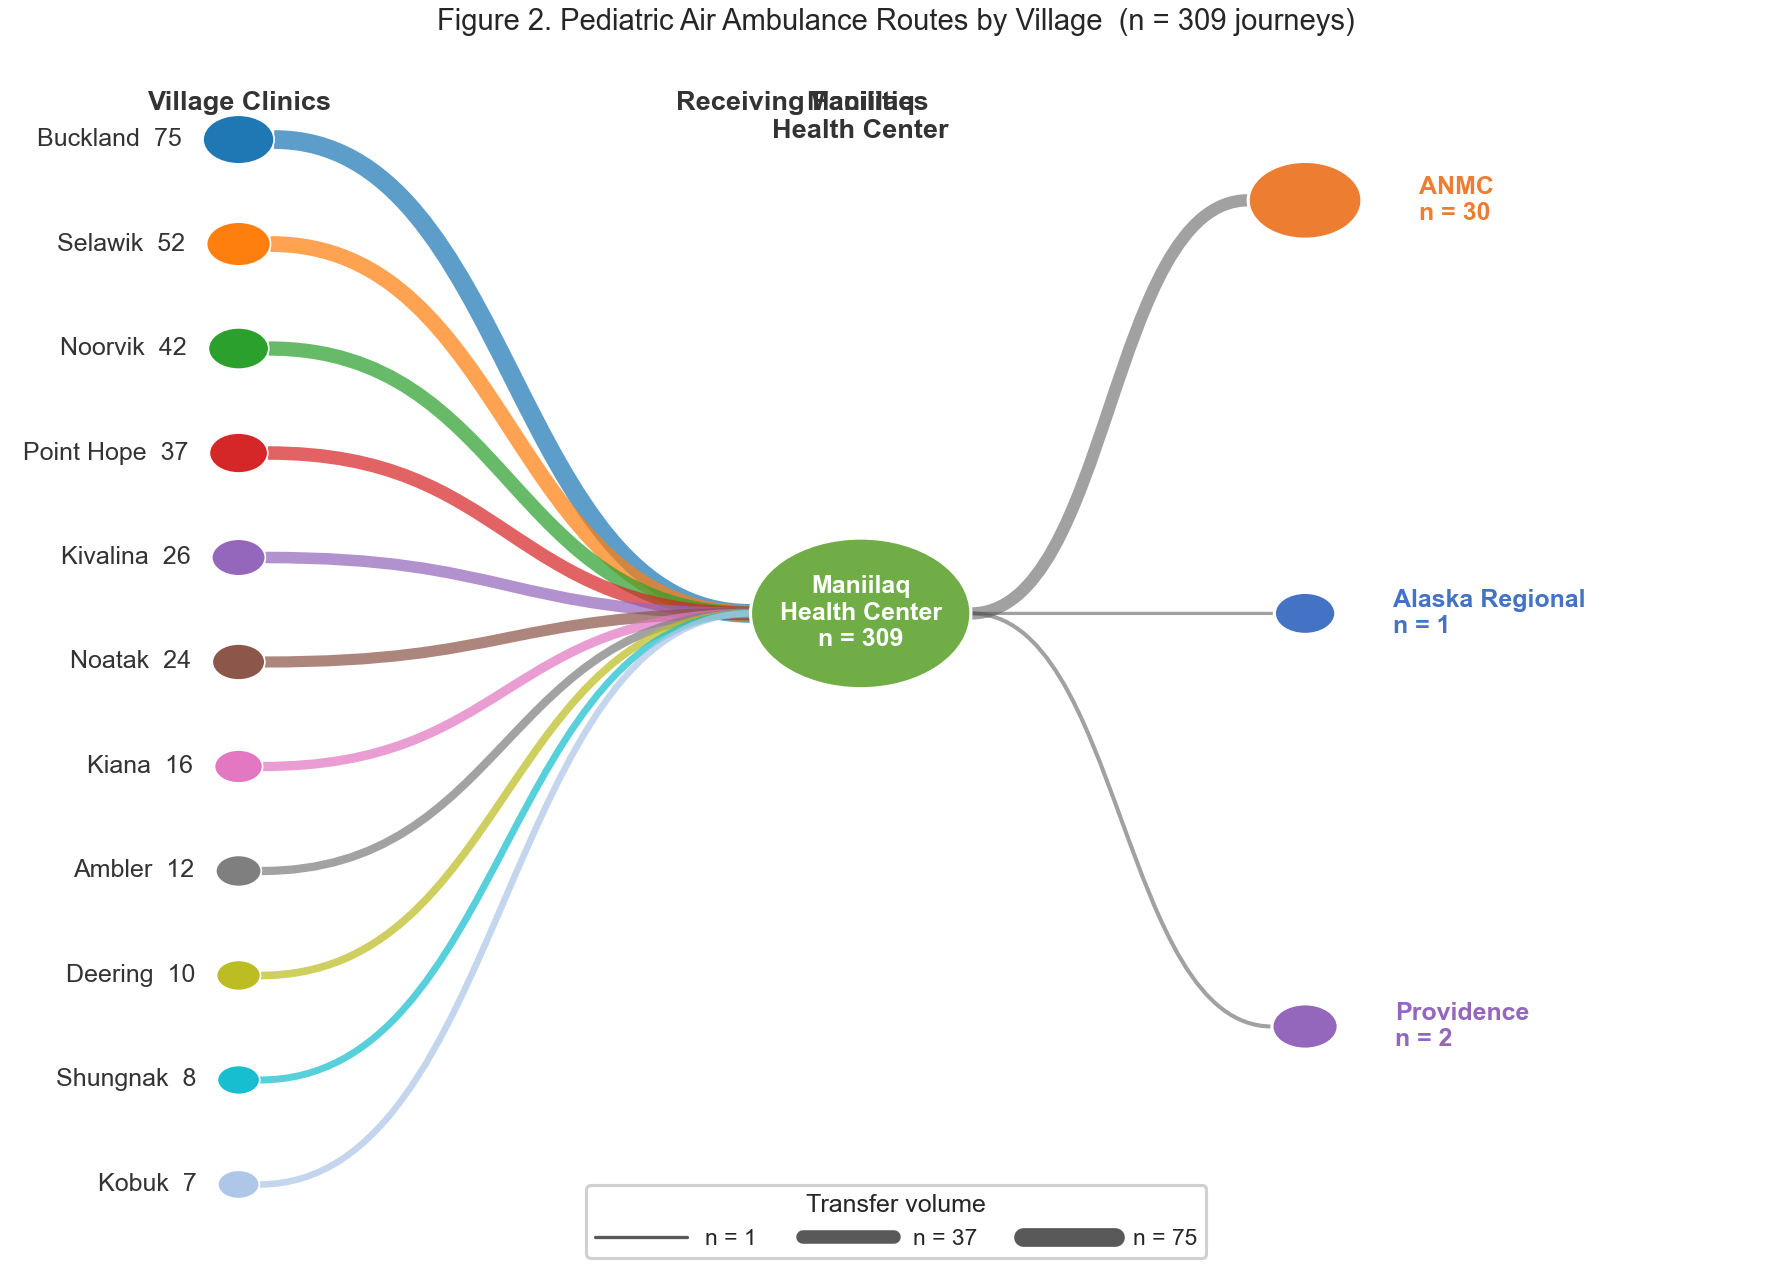
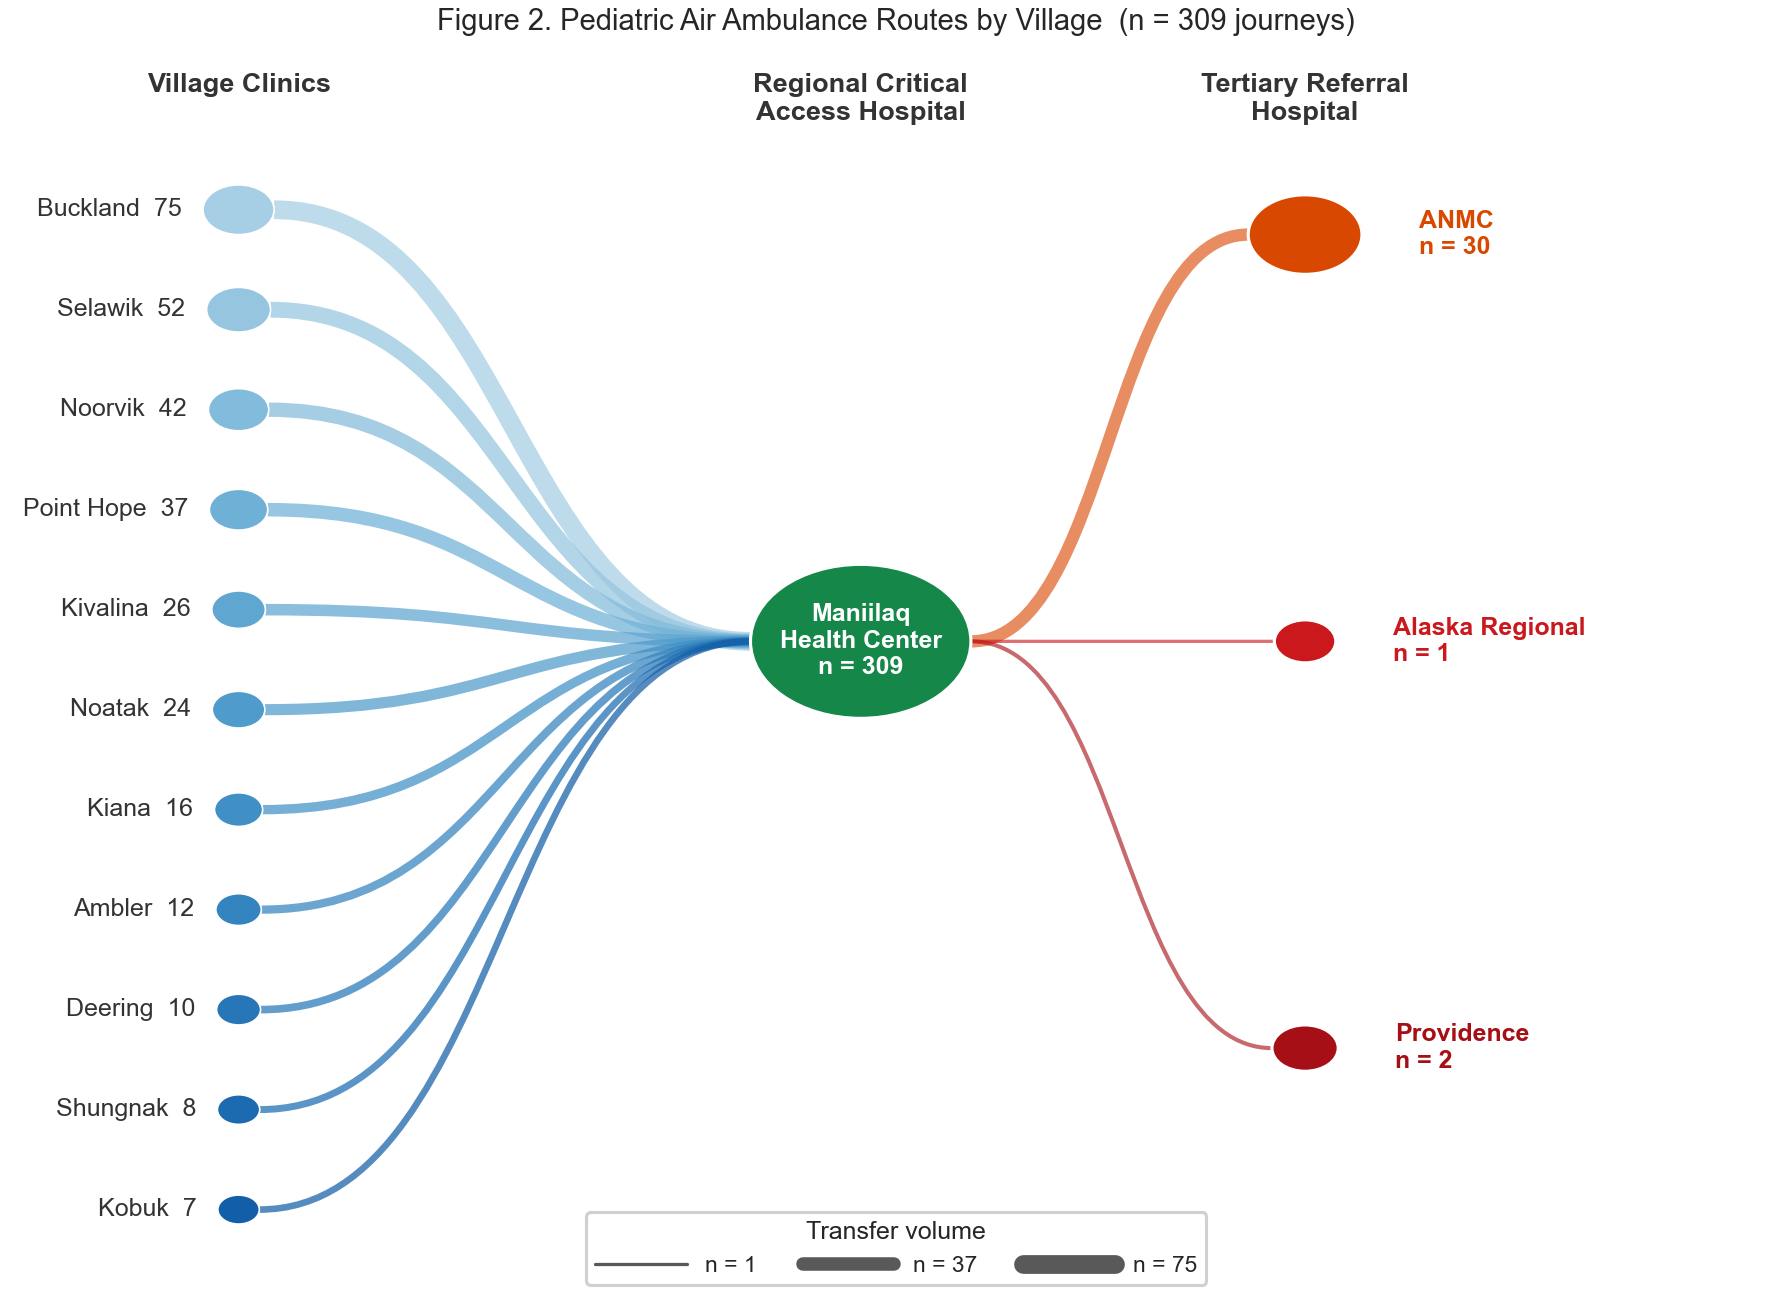
Finalize Figure 2 route map layout, labels, and care-pathway colors.
Use generic column headers with proper spacing, distinct Maniilaq and ANMC colors with village-to-tertiary progression, and drop the pathway colorbar.

diff --git a/analysis/medevac_summaries.py b/analysis/medevac_summaries.py
@@ -3578,6 +3578,12 @@ _VILLAGE_PALETTE = [
     "#1f77b4","#ff7f0e","#2ca02c","#d62728","#9467bd",
     "#8c564b","#e377c2","#7f7f7f","#bcbd22","#17becf","#aec7e8",
 ]
+# Figure 2 route map: left→right care-pathway colors (villages → MHC → tertiary)
+_ROUTE_MHC_COLOR = "#158749"
+_ROUTE_ANMC_COLOR = "#D94801"
+_ROUTE_VILLAGE_CMAP_LO = 0.35
+_ROUTE_VILLAGE_CMAP_HI = 0.82
+_ROUTE_TERTIARY_OTHER = ["#CB181D", "#A50F15", "#7F2704"]
 _AGE_PALETTE = ["#4C72B0","#DD8452","#55A868","#C44E52"]
 _AGE_ORDER   = ["<1 year","1–<5 years","5–12 years","13–18 years"]
 
@@ -3817,6 +3823,8 @@ def plot_fig4_sankey_transport_routes(df_all: pd.DataFrame) -> plt.Figure:
     ANMC detection covers both PHI encoded values ("Hub_01", values that
     start with "Hub") and the synthetic/plain-text label "ANMC".
     """
+    import matplotlib.cm as cm
+    import matplotlib.colors as mcolors
     import matplotlib.patches as mpatches
     from matplotlib.path import Path as MplPath
     import numpy as np
@@ -3905,19 +3913,23 @@ def plot_fig4_sankey_transport_routes(df_all: pd.DataFrame) -> plt.Figure:
 
     villages = sorted(village_total, key=lambda v: -village_total[v])
 
-    # ── Colour palettes ───────────────────────────────────────────────────────
+    # ── Colour palettes (village blues → MHC green → tertiary warm) ───────────
+    blues = cm.get_cmap("Blues")
+    nv = len(villages)
     vcolor: dict[str, str] = {
-        v: _VILLAGE_PALETTE[i % len(_VILLAGE_PALETTE)]
+        v: mcolors.to_hex(
+            blues(
+                _ROUTE_VILLAGE_CMAP_LO
+                + (_ROUTE_VILLAGE_CMAP_HI - _ROUTE_VILLAGE_CMAP_LO)
+                * i
+                / max(nv - 1, 1)
+            )
+        )
         for i, v in enumerate(villages)
     }
-    right_colors = {
-        "ANMC": "#ED7D31",
-        "MHC":  "#70AD47",
-    }
-    outside_palette = ["#4472C4", "#9467BD", "#8C564B", "#E377C2",
-                       "#17BECF", "#BCBD22", "#7F7F7F"]
-    for i, d in enumerate(d for d in all_right_dests if d not in right_colors):
-        right_colors[d] = outside_palette[i % len(outside_palette)]
+    right_colors: dict[str, str] = {"ANMC": _ROUTE_ANMC_COLOR}
+    for i, d in enumerate(d for d in all_right_dests if d != "ANMC"):
+        right_colors[d] = _ROUTE_TERTIARY_OTHER[i % len(_ROUTE_TERTIARY_OTHER)]
 
     # ── Layout constants ──────────────────────────────────────────────────────
     X_V   = 0.13    # village column x-centre
@@ -3925,15 +3937,15 @@ def plot_fig4_sankey_transport_routes(df_all: pd.DataFrame) -> plt.Figure:
     X_R   = 0.73    # right column dot x-centre (ANMC + outside)
     R_LABEL_GAP = 0.032  # horizontal gap between dot edge and label
 
-    # Village y positions
+    # Village y positions (keep top row below multi-line column headers)
     nv = len(villages)
-    yv_top, yv_bot = 0.93, 0.07
+    yv_top, yv_bot = 0.875, 0.07
     v_ys = {v: yv_top - i * (yv_top - yv_bot) / max(nv - 1, 1)
             for i, v in enumerate(villages)}
 
     # Right-column nodes: evenly spaced, top to bottom
     nr = len(all_right_dests)
-    yr_top, yr_bot = 0.88, 0.20
+    yr_top, yr_bot = 0.855, 0.20
     r_ys = {d: yr_top - i * (yr_top - yr_bot) / max(nr - 1, 1)
             for i, d in enumerate(all_right_dests)}
     Y_MHC = float(np.mean([yr_top, yr_bot]))   # MHC centres vertically
@@ -3957,6 +3969,7 @@ def plot_fig4_sankey_transport_routes(df_all: pd.DataFrame) -> plt.Figure:
 
     all_right_max = max(n_right.values()) if n_right else 1
     R_R_MAX, R_R_MIN = 0.032, 0.014   # dot radius for right-column nodes
+    X_R_HDR = X_R                 # header centered over tertiary dots (not labels)
 
     def _rr(n: int) -> float:
         return R_R_MIN + (R_R_MAX - R_R_MIN) * (n / all_right_max) ** 0.5
@@ -4011,13 +4024,14 @@ def plot_fig4_sankey_transport_routes(df_all: pd.DataFrame) -> plt.Figure:
             continue
         ry = r_ys[dest]
         rr = _rr(n_right.get(dest, 1))
+        dest_col = right_colors.get(dest, "#555555")
         _curve(X_MHC + MHC_R, Y_MHC, X_R - rr, ry,
-               lw=_lw(n), color="#555555", alpha=0.55, zorder=3)
+               lw=_lw(n), color=dest_col, alpha=0.62, zorder=3)
 
     # ── MHC node ──────────────────────────────────────────────────────────────
     n_mhc_total = sum(n for (_, d), n in prim_counts.items() if d == "MHC")
     ax.add_patch(plt.Circle((X_MHC, Y_MHC), MHC_R,
-                             facecolor="#70AD47", edgecolor="white",
+                             facecolor=_ROUTE_MHC_COLOR, edgecolor="white",
                              linewidth=1.5, zorder=5))
     ax.text(X_MHC, Y_MHC,
             f"Maniilaq\nHealth Center\nn = {n_mhc_total}",
@@ -4052,9 +4066,9 @@ def plot_fig4_sankey_transport_routes(df_all: pd.DataFrame) -> plt.Figure:
 
     # ── Column headers ────────────────────────────────────────────────────────
     for xc, lbl in [(X_V, "Village Clinics"),
-                    (X_MHC, "Maniilaq\nHealth Center"),
-                    ((X_R + R_R_MAX + R_LABEL_GAP + 0.10) / 2, "Receiving Facilities")]:
-        ax.text(xc, 0.97, lbl, ha="center", va="top",
+                    (X_MHC, "Regional Critical\nAccess Hospital"),
+                    (X_R_HDR, "Tertiary Referral\nHospital")]:
+        ax.text(xc, 0.985, lbl, ha="center", va="top",
                 fontsize=13, fontweight="bold", color="#333333")
 
     # ── Legend ────────────────────────────────────────────────────────────────
@@ -4073,7 +4087,7 @@ def plot_fig4_sankey_transport_routes(df_all: pd.DataFrame) -> plt.Figure:
         f"Figure 2. Pediatric Air Ambulance Routes by Village  (n = {total_journeys} journeys)",
         fontsize=14, pad=12,
     )
-    fig.subplots_adjust(left=0.18, right=0.97, top=0.94, bottom=0.04)
+    fig.subplots_adjust(left=0.18, right=0.97, top=0.96, bottom=0.04)
     return fig
 
 
